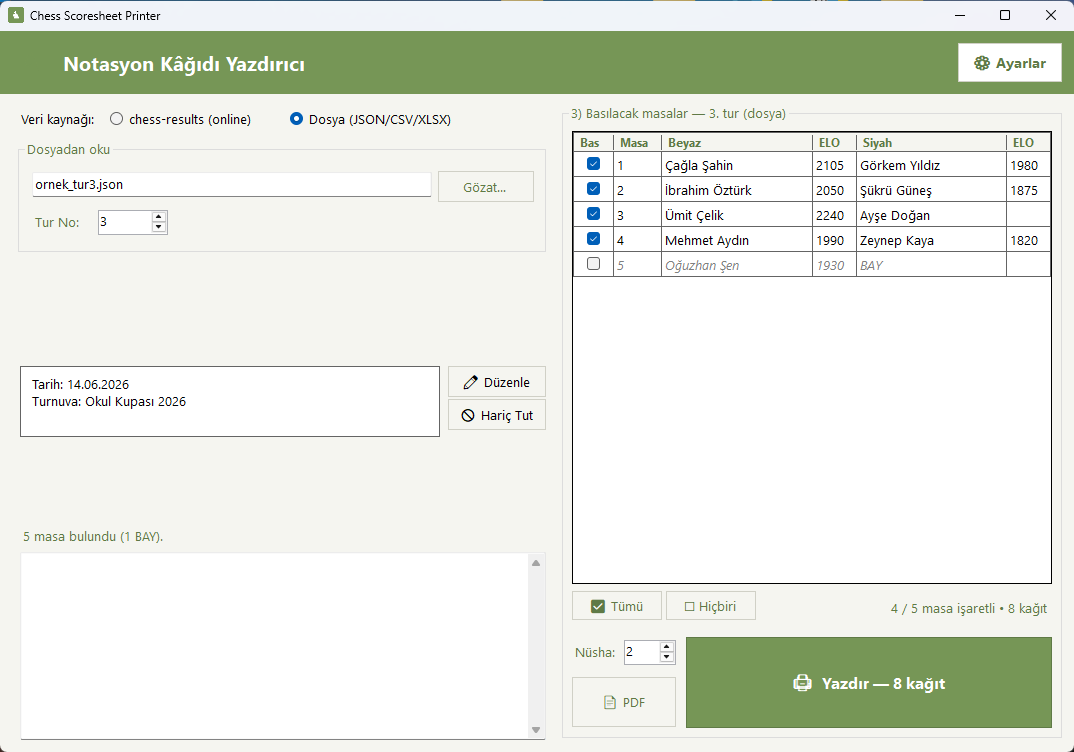
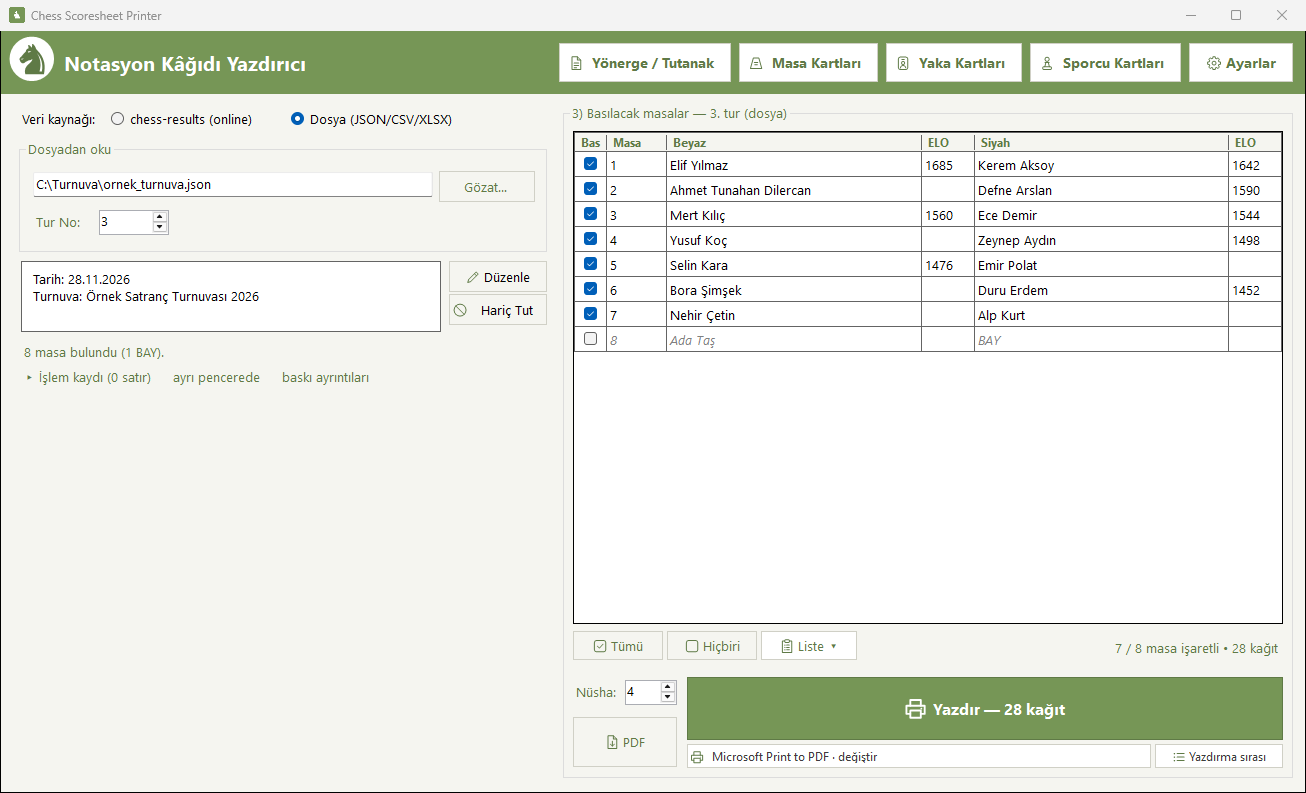
Download page: redesign with sample outputs, GitHub and LinkedIn links
- Header with section links and GitHub / LinkedIn icons; FAQ (also as
  schema.org FAQPage); scoresheet section; gallery of all outputs with a
  full-size viewer
- New images rendered by the app's own drawing code with fictional data
  (tests/AppTests/SiteImagesTests.cs, CSP_SITE_SHOTS): scoresheet, athlete
  badge, name plate (UKD), table card, pairing list, results and standings,
  arbiter sheet with penalty form; new main-window screenshot
- samples/ornek_turnuva.json: fictional tournament for the screenshots
- MainForm: CSP_UI_FILE loads a pairing file on startup (screenshots/tests)

Claude-Session: https://claude.ai/code/session_01DQJQJNc1bC6K3f4wb6bKDb

diff --git a/docs/index.html b/docs/index.html
@@ -29,135 +29,266 @@
   "downloadUrl": "https://github.com/TunahanDilercan/chess-scoresheet-printer/releases/latest/download/ChessScoresheetPrinter-win-Setup.exe",
   "screenshot": "https://www.tunahandilercan.com.tr/chess-scoresheet-printer/images/main-window.png",
   "offers": { "@type": "Offer", "price": "0", "priceCurrency": "TRY" },
-  "author": { "@type": "Person", "name": "Tunahan Dilercan", "url": "https://github.com/TunahanDilercan" }
+  "author": {
+    "@type": "Person",
+    "name": "Tunahan Dilercan",
+    "url": "https://www.tunahandilercan.com.tr/",
+    "sameAs": ["https://github.com/TunahanDilercan", "https://www.linkedin.com/in/tunahandilercan/"]
+  }
+}
+</script>
+<script type="application/ld+json">
+{
+  "@context": "https://schema.org",
+  "@type": "FAQPage",
+  "mainEntity": [
+    { "@type": "Question", "name": "Notasyon Yazdırıcı ücretli mi?",
+      "acceptedAnswer": { "@type": "Answer", "text": "Hayır. Program ücretsizdir; kaynak kodu GitHub'da açıktır." } },
+    { "@type": "Question", "name": "Eşleştirmeler nereden alınır?",
+      "acceptedAnswer": { "@type": "Answer", "text": "Turnuva chess-results üzerinden aranır ve eşleştirmeler otomatik alınır. İnternet olmadan JSON, CSV veya Excel dosyasından da yüklenebilir." } },
+    { "@type": "Question", "name": "Hangi notasyon kâğıtlarıyla çalışır?",
+      "acceptedAnswer": { "@type": "Answer", "text": "Hazır şablonlar yaygın kullanılan A5 notasyon kâğıtlarına göre ayarlıdır. Farklı bir kâğıt için alan konumları şablon düzenleyiciden değiştirilir ve yazıcı kayması milimetre olarak düzeltilir." } },
+    { "@type": "Question", "name": "Güncellemeler nasıl yapılır?",
+      "acceptedAnswer": { "@type": "Answer", "text": "Yeni sürüm program içinden bildirilir; yalnızca değişen kısımlar indirilir. Ayarlar ve şablonlar korunur." } }
+  ]
 }
 </script>
 <style>
   :root {
-    --bg: #f6f6f2; --surface: #ffffff; --text: #1f2a1a; --muted: #5d6656; --line: #dfe2d8;
-    --brand: #5f7a46; --brand-dark: #4b6237; --brand-soft: #e9eee2; --note: #fff8e6; --note-line: #ecd9a6;
+    --bg: #f7f7f3; --surface: #ffffff; --text: #1d2618; --muted: #5a6453; --line: #e0e3d9;
+    --brand: #5f7a46; --brand-dark: #4a6136; --brand-soft: #edf1e6; --note: #fbf6e8; --note-line: #eadcb2;
+    --shadow: 0 14px 36px rgba(20, 30, 15, .12);
   }
   @media (prefers-color-scheme: dark) {
     :root:not([data-theme="light"]) {
-      --bg: #141712; --surface: #1c2019; --text: #e8ebe4; --muted: #a4ab9c; --line: #2f352b;
-      --brand: #7d9b5f; --brand-dark: #93b173; --brand-soft: #243020; --note: #2a2618; --note-line: #4d4527;
+      --bg: #131611; --surface: #1b1f18; --text: #e9ece5; --muted: #a3aa9b; --line: #2d3329;
+      --brand: #7f9d61; --brand-dark: #97b577; --brand-soft: #222b1d; --note: #26231a; --note-line: #4a4228;
+      --shadow: 0 14px 36px rgba(0, 0, 0, .45);
     }
   }
   :root[data-theme="dark"] {
-    --bg: #141712; --surface: #1c2019; --text: #e8ebe4; --muted: #a4ab9c; --line: #2f352b;
-    --brand: #7d9b5f; --brand-dark: #93b173; --brand-soft: #243020; --note: #2a2618; --note-line: #4d4527;
+    --bg: #131611; --surface: #1b1f18; --text: #e9ece5; --muted: #a3aa9b; --line: #2d3329;
+    --brand: #7f9d61; --brand-dark: #97b577; --brand-soft: #222b1d; --note: #26231a; --note-line: #4a4228;
+    --shadow: 0 14px 36px rgba(0, 0, 0, .45);
   }
   * { box-sizing: border-box; }
-  body { margin: 0; background: var(--bg); color: var(--text); font: 16px/1.6 "Segoe UI", system-ui, -apple-system, Roboto, sans-serif; }
+  html { scroll-behavior: smooth; }
+  body { margin: 0; background: var(--bg); color: var(--text); font: 16px/1.65 "Segoe UI", system-ui, -apple-system, Roboto, sans-serif; }
   a { color: var(--brand-dark); }
-  .wrap { max-width: 1040px; margin: 0 auto; padding: 0 16px; }
-  header { padding: 20px 0; }
-  .brand { display: flex; align-items: center; gap: 10px; font-weight: 600; text-decoration: none; color: var(--text); }
-  .brand img { width: 32px; height: 32px; }
-  .hero { display: grid; grid-template-columns: 1fr; gap: 32px; padding: 24px 0 48px; align-items: center; }
-  @media (min-width: 900px) { .hero { grid-template-columns: 5fr 6fr; } }
-  h1 { font-size: clamp(30px, 5vw, 42px); line-height: 1.15; margin: 0 0 14px; letter-spacing: -0.01em; }
-  .lead { font-size: 18px; color: var(--muted); margin: 0 0 28px; }
+  img { max-width: 100%; height: auto; }
+  .wrap { max-width: 1080px; margin: 0 auto; padding: 0 16px; }
+
+  /* Üst çubuk */
+  .top { position: sticky; top: 0; z-index: 10; background: color-mix(in srgb, var(--bg) 88%, transparent);
+         backdrop-filter: blur(8px); border-bottom: 1px solid var(--line); }
+  .top .wrap { display: flex; align-items: center; gap: 16px; height: 60px; }
+  .brand { display: flex; align-items: center; gap: 10px; font-weight: 700; text-decoration: none; color: var(--text); white-space: nowrap; }
+  .brand img { width: 28px; height: 28px; }
+  nav { margin-left: auto; display: flex; align-items: center; gap: 4px; }
+  nav a.sec { color: var(--muted); text-decoration: none; font-size: 15px; padding: 6px 10px; border-radius: 6px; }
+  nav a.sec:hover { color: var(--text); background: var(--brand-soft); }
+  .icon-link { display: inline-flex; width: 36px; height: 36px; align-items: center; justify-content: center; border-radius: 8px; color: var(--muted); }
+  .icon-link:hover { color: var(--text); background: var(--brand-soft); }
+  .icon-link svg { width: 20px; height: 20px; }
+  .sep { width: 1px; height: 22px; background: var(--line); margin: 0 6px; }
+  @media (max-width: 720px) { nav a.sec, .sep { display: none; } }
+
+  /* Giriş */
+  .hero { display: grid; gap: 36px; padding: 56px 0 40px; align-items: center; }
+  @media (min-width: 920px) { .hero { grid-template-columns: 5fr 7fr; } }
+  .eyebrow { display: inline-block; font-size: 13px; font-weight: 600; letter-spacing: .04em; text-transform: uppercase; color: var(--brand-dark);
+             background: var(--brand-soft); padding: 3px 10px; border-radius: 99px; margin-bottom: 14px; }
+  h1 { font-size: clamp(34px, 5.4vw, 48px); line-height: 1.1; margin: 0 0 16px; letter-spacing: -0.015em; }
+  .lead { font-size: 18px; color: var(--muted); margin: 0 0 28px; max-width: 34em; }
   .download { display: inline-flex; align-items: center; gap: 12px; background: var(--brand); color: #fff; text-decoration: none;
-              padding: 16px 28px; border-radius: 10px; font-size: 18px; font-weight: 600; box-shadow: 0 2px 0 rgba(0,0,0,.12); }
+              padding: 15px 28px; border-radius: 10px; font-size: 18px; font-weight: 600; box-shadow: 0 2px 0 rgba(0,0,0,.14); }
   .download:hover { background: var(--brand-dark); }
-  .download:focus-visible { outline: 3px solid var(--text); outline-offset: 3px; }
+  .download:focus-visible, .icon-link:focus-visible, nav a:focus-visible, .gallery button:focus-visible { outline: 3px solid var(--text); outline-offset: 2px; }
   .download svg { width: 22px; height: 22px; flex: none; }
   .meta { margin: 12px 0 0; font-size: 14px; color: var(--muted); }
-  .alt { margin: 18px 0 0; font-size: 15px; display: flex; flex-wrap: wrap; gap: 6px 18px; }
-  .shot { width: 100%; height: auto; border-radius: 10px; border: 1px solid var(--line); box-shadow: 0 12px 32px rgba(0,0,0,.12); background: #fff; }
-  .note { background: var(--note); border: 1px solid var(--note-line); border-radius: 10px; padding: 14px 18px; font-size: 15px; margin: 0 0 48px; }
-  .note strong { display: block; margin-bottom: 2px; }
-  h2 { font-size: 26px; margin: 0 0 20px; }
-  section { padding: 0 0 56px; }
-  .grid { display: grid; grid-template-columns: repeat(auto-fit, minmax(260px, 1fr)); gap: 16px; }
-  .card { background: var(--surface); border: 1px solid var(--line); border-radius: 10px; padding: 18px 20px; }
+  .alt { margin: 16px 0 0; font-size: 15px; display: flex; flex-wrap: wrap; gap: 6px 20px; }
+  .shot { display: block; width: 100%; border-radius: 10px; border: 1px solid var(--line); box-shadow: var(--shadow); background: #fff; }
+
+  /* Bölümler */
+  section { padding: 48px 0; border-top: 1px solid var(--line); }
+  h2 { font-size: 28px; line-height: 1.25; margin: 0 0 8px; letter-spacing: -0.01em; }
+  .sub { color: var(--muted); margin: 0 0 28px; max-width: 46em; }
+  .grid { display: grid; grid-template-columns: repeat(auto-fit, minmax(270px, 1fr)); gap: 16px; }
+  .card { background: var(--surface); border: 1px solid var(--line); border-radius: 12px; padding: 20px 22px; }
   .card h3 { margin: 0 0 6px; font-size: 17px; }
   .card p { margin: 0; color: var(--muted); font-size: 15px; }
-  .samples { display: grid; grid-template-columns: 1fr; gap: 20px; }
-  @media (min-width: 760px) { .samples { grid-template-columns: 4fr 5fr; align-items: start; } }
-  figure { margin: 0; }
-  figure img { width: 100%; height: auto; border: 1px solid var(--line); border-radius: 8px; background: #fff; }
-  figcaption { font-size: 14px; color: var(--muted); margin-top: 8px; }
+
+  .split { display: grid; gap: 32px; align-items: center; }
+  @media (min-width: 860px) { .split { grid-template-columns: 6fr 5fr; } }
+  .split .paper { max-width: 440px; justify-self: center; }
+  ul.points { margin: 0; padding: 0; list-style: none; }
+  ul.points li { position: relative; padding-left: 26px; margin-bottom: 12px; }
+  ul.points li::before { content: ""; position: absolute; left: 0; top: .55em; width: 12px; height: 12px; border-radius: 3px; background: var(--brand); }
+
+  /* Örnek çıktılar: tek ekranda galeri */
+  .gallery { display: grid; gap: 18px; grid-template-columns: repeat(auto-fill, minmax(290px, 1fr)); }
+  .gallery figure { margin: 0; background: var(--surface); border: 1px solid var(--line); border-radius: 12px; padding: 12px; display: flex; flex-direction: column; }
+  .gallery button { all: unset; cursor: zoom-in; display: flex; align-items: center; justify-content: center; height: 240px;
+                    background: #fff; border-radius: 6px; overflow: hidden; border: 1px solid var(--line); }
+  .gallery button img { max-height: 228px; width: auto; max-width: 96%; object-fit: contain; }
+  .gallery figcaption { font-size: 14px; margin-top: 10px; }
+  .gallery figcaption b { display: block; font-size: 15px; }
+  .gallery figcaption span { color: var(--muted); }
+  dialog { border: 0; padding: 0; background: transparent; max-width: min(96vw, 1100px); max-height: 94vh; }
+  dialog::backdrop { background: rgba(10, 12, 8, .82); }
+  dialog img { display: block; max-width: min(96vw, 1100px); max-height: 88vh; width: auto; margin: 0 auto; background: #fff; border-radius: 6px; }
+  dialog p { color: #eef; text-align: center; margin: 10px 0 0; font-size: 15px; }
+  dialog form { position: fixed; top: 14px; right: 18px; }
+  dialog form button { font: inherit; font-size: 15px; color: #fff; background: rgba(255,255,255,.16); border: 0; border-radius: 8px; padding: 8px 14px; cursor: pointer; }
+
   ol.steps { margin: 0; padding-left: 22px; }
-  ol.steps li { margin-bottom: 8px; }
-  footer { border-top: 1px solid var(--line); padding: 24px 0 40px; font-size: 14px; color: var(--muted); }
-  footer p { margin: 0 0 6px; }
+  ol.steps li { margin-bottom: 10px; }
+  .note { background: var(--note); border: 1px solid var(--note-line); border-radius: 10px; padding: 14px 18px; font-size: 15px; margin-top: 22px; }
+  details { background: var(--surface); border: 1px solid var(--line); border-radius: 10px; padding: 14px 18px; margin-bottom: 10px; }
+  details summary { cursor: pointer; font-weight: 600; }
+  details p { margin: 8px 0 0; color: var(--muted); }
+
+  footer { border-top: 1px solid var(--line); padding: 28px 0 44px; font-size: 14px; color: var(--muted); }
+  footer .wrap { display: flex; flex-wrap: wrap; gap: 8px 24px; justify-content: space-between; }
+  footer p { margin: 0; }
 </style>
 </head>
 <body>
-<div class="wrap">
-  <header>
-    <a class="brand" href="./"><img src="images/icon.png" alt="" width="32" height="32">Notasyon Yazdırıcı</a>
-  </header>
+<header class="top">
+  <div class="wrap">
+    <a class="brand" href="./"><img src="images/icon.png" alt="" width="28" height="28">Notasyon Yazdırıcı</a>
+    <nav aria-label="Sayfa">
+      <a class="sec" href="#ozellikler">Özellikler</a>
+      <a class="sec" href="#ornekler">Örnek çıktılar</a>
+      <a class="sec" href="#kurulum">Kurulum</a>
+      <span class="sep" aria-hidden="true"></span>
+      <a class="icon-link" href="https://github.com/TunahanDilercan/chess-scoresheet-printer" title="GitHub" aria-label="GitHub'da kaynak kod">
+        <svg viewBox="0 0 24 24" fill="currentColor" aria-hidden="true"><path d="M12 .5a11.5 11.5 0 0 0-3.64 22.41c.58.11.79-.25.79-.56v-2c-3.2.7-3.88-1.37-3.88-1.37-.52-1.33-1.28-1.69-1.28-1.69-1.05-.71.08-.7.08-.7 1.16.08 1.77 1.19 1.77 1.19 1.03 1.77 2.7 1.26 3.36.96.1-.75.4-1.26.73-1.55-2.56-.29-5.25-1.28-5.25-5.69 0-1.26.45-2.29 1.19-3.09-.12-.29-.52-1.46.11-3.05 0 0 .97-.31 3.17 1.18a10.9 10.9 0 0 1 5.77 0c2.2-1.49 3.17-1.18 3.17-1.18.63 1.59.23 2.76.11 3.05.74.8 1.19 1.83 1.19 3.09 0 4.42-2.7 5.39-5.27 5.68.41.36.78 1.06.78 2.14v3.17c0 .31.21.68.8.56A11.5 11.5 0 0 0 12 .5Z"/></svg>
+      </a>
+      <a class="icon-link" href="https://www.linkedin.com/in/tunahandilercan/" title="LinkedIn" aria-label="Tunahan Dilercan LinkedIn profili">
+        <svg viewBox="0 0 24 24" fill="currentColor" aria-hidden="true"><path d="M20.45 20.45h-3.56v-5.57c0-1.33-.02-3.04-1.85-3.04-1.85 0-2.14 1.45-2.14 2.94v5.67H9.35V9h3.41v1.56h.05c.48-.9 1.64-1.85 3.37-1.85 3.6 0 4.27 2.37 4.27 5.46v6.28ZM5.34 7.43a2.07 2.07 0 1 1 0-4.14 2.07 2.07 0 0 1 0 4.14ZM7.12 20.45H3.56V9h3.56v11.45ZM22.22 0H1.77C.79 0 0 .77 0 1.73v20.54C0 23.23.79 24 1.77 24h20.45c.98 0 1.78-.77 1.78-1.73V1.73C24 .77 23.2 0 22.22 0Z"/></svg>
+      </a>
+    </nav>
+  </div>
+</header>
 
+<main class="wrap">
   <div class="hero">
     <div>
+      <span class="eyebrow">Satranç turnuvaları için</span>
       <h1>Notasyon Yazdırıcı</h1>
-      <p class="lead">Satranç turnuvaları için yazdırma programı. Eşleştirmeleri chess-results'tan alır; notasyon kâğıtlarını, hakem eşleştirme kağıtlarını, yaka kartlarını ve masa kartlarını hazırlayıp yazdırır.</p>
-      <a class="download" id="download" href="https://github.com/TunahanDilercan/chess-scoresheet-printer/releases/latest/download/ChessScoresheetPrinter-win-Setup.exe">
+      <p class="lead">Eşleştirmeleri chess-results'tan alır; notasyon kâğıtlarını, hakem eşleştirme kağıtlarını, salon listelerini, yaka kartlarını ve masa kartlarını dakikalar içinde hazırlayıp yazdırır.</p>
+      <a class="download" href="https://github.com/TunahanDilercan/chess-scoresheet-printer/releases/latest/download/ChessScoresheetPrinter-win-Setup.exe">
         <svg viewBox="0 0 24 24" fill="none" stroke="currentColor" stroke-width="2" stroke-linecap="round" stroke-linejoin="round" aria-hidden="true"><path d="M12 3v12"/><path d="m7 10 5 5 5-5"/><path d="M5 21h14"/></svg>
         Windows için indir
       </a>
-      <p class="meta" id="meta">En son sürüm • Windows 10 ve 11 (64 bit) • Ücretsiz</p>
-      <p class="meta">Geliştiren: Tunahan Dilercan</p>
+      <p class="meta" id="meta">Son sürüm • Windows 10 ve 11 (64 bit) • Ücretsiz</p>
       <p class="alt">
-        <a href="https://github.com/TunahanDilercan/chess-scoresheet-printer/releases/latest/download/ChessScoresheetPrinter-win-Portable.zip">Taşınabilir sürüm (ZIP, kurulumsuz)</a>
+        <a href="https://github.com/TunahanDilercan/chess-scoresheet-printer/releases/latest/download/ChessScoresheetPrinter-win-Portable.zip">Kurulumsuz sürüm (ZIP)</a>
         <a href="https://github.com/TunahanDilercan/chess-scoresheet-printer/releases">Sürüm notları</a>
-        <a href="https://github.com/TunahanDilercan/chess-scoresheet-printer">Kaynak kod</a>
       </p>
     </div>
-    <img class="shot" src="images/main-window.png" width="1074" height="752" alt="Notasyon Yazdırıcı ana penceresi: basılacak masalar listesi ve Yazdır düğmesi">
+    <img class="shot" src="images/main-window.png" width="1306" height="793" alt="Notasyon Yazdırıcı ana ekranı: 3. tur eşleştirmeleri, basılacak masalar ve Yazdır düğmesi">
   </div>
 
-  <div class="note">
-    <strong>Windows uyarı gösterirse</strong>
-    Program yeni ve imzasız olduğu için Windows ilk açılışta "Bilgisayarınız korundu" uyarısı gösterebilir. Devam etmek için <b>Ek bilgi</b>, ardından <b>Yine de çalıştır</b> seçeneğine tıklayın.
-  </div>
-
-  <section>
-    <h2>Neler yapılabilir</h2>
+  <section id="ozellikler">
+    <h2>Turnuvanın bütün basılı evrakı tek programda</h2>
+    <p class="sub">Turnuvayı seçin, turu seçin, yazdırın. Kategoriler, turlar ve sporcu bilgileri chess-results'tan otomatik gelir; elle veri girmeye gerek kalmaz.</p>
     <div class="grid">
-      <div class="card"><h3>Notasyon kâğıtları</h3><p>Eşleştirmeler hazır basılı kâğıtlara yerleştirilir. İsviçre, Berger ve takım turnuvaları desteklenir; tur ve kategoriye göre toplu yazdırılır.</p></div>
-      <div class="card"><h3>Hakem eşleştirme kağıtları</h3><p>İri yazılı, sonuç kutulu kağıtlar ve ceza bildirim formu. Siyah beyaz baskıya uygundur.</p></div>
-      <div class="card"><h3>Yaka kartı ve isimlik</h3><p>Sporcu, hakem ve görevli kartları. Kategori renkleri masa kartlarıyla ortaktır.</p></div>
-      <div class="card"><h3>Kategori masa kartları</h3><p>Turnuva afişi ve kategori adıyla A4 masa kartları; logo yerleşimi ayarlanabilir.</p></div>
-      <div class="card"><h3>Pano listeleri</h3><p>Eşleştirme, sonuç ve sıralama listeleri salon panosu için A4'e hazırlanır.</p></div>
+      <div class="card"><h3>Notasyon kâğıtları</h3><p>Masa, tur, oyuncu adları, rating ve il bilgisi hazır basılı kâğıda yerleştirilir. İsviçre, Berger ve takım turnuvaları desteklenir.</p></div>
+      <div class="card"><h3>Hakem eşleştirme kağıtları</h3><p>Büyük yazılı, sonuç kutulu kağıtlar; isteğe bağlı ceza bildirim formuyla aynı sayfada.</p></div>
+      <div class="card"><h3>Salon listeleri</h3><p>Her kategorinin eşleştirme, sonuç ve sıralama listeleri pano için A4'e hazırlanır.</p></div>
+      <div class="card"><h3>Yaka kartı ve isimlik</h3><p>Sporcu, hakem ve görevli kartları. Her kategori kendi renginde; UKD ve ELO bilgisiyle.</p></div>
+      <div class="card"><h3>Kategori masa kartları</h3><p>Turnuva afişi ve büyük kategori adıyla A4 masa kartları. Renkler yaka kartlarıyla ortaktır.</p></div>
       <div class="card"><h3>Yönerge, rapor ve tutanaklar</h3><p>Turnuva bilgileriyle doldurulan hazır şablonlar; PDF, yazıcı ya da Word çıktısı.</p></div>
     </div>
   </section>
 
-  <section>
+  <section id="notasyon">
+    <div class="split">
+      <div>
+        <h2>Hazır basılı kâğıda tam yerleşim</h2>
+        <p class="sub">Programın temel işi: her masanın notasyon kâğıdını, elle yazmaya gerek bırakmadan doldurmak.</p>
+        <ul class="points">
+          <li>Turnuva adı, tarih, kategori, tur ve masa numarası ile iki oyuncunun adı, ratingi ve ili tek seferde basılır.</li>
+          <li>Hazır şablonlar yaygın kullanılan A5 notasyon kâğıtlarına göre ayarlıdır.</li>
+          <li>Farklı bir kâğıt için alan konumları şablon düzenleyiciden sürükle-bırak ile değiştirilir.</li>
+          <li>Yazıcı kayması milimetre olarak düzeltilir; hizalama test sayfasıyla boş kâğıtta denenir.</li>
+          <li>Seçilen masalar, bütün kategori ya da bütün tur tek tıkla basılır.</li>
+        </ul>
+      </div>
+      <img class="paper shot" src="images/sample-scoresheet.jpg" width="932" height="1322" loading="lazy"
+           alt="Doldurulmuş notasyon kâğıdı: Örnek Satranç Turnuvası 2026, 3. tur, 2. masa, Ahmet Tunahan Dilercan – Defne Arslan">
+    </div>
+  </section>
+
+  <section id="ornekler">
     <h2>Örnek çıktılar</h2>
-    <div class="samples">
+    <p class="sub">Aşağıdaki görseller programın kendi çıktılarıdır; büyütmek için üzerine tıklayın. Örneklerdeki turnuva ve sporcular hayalîdir.</p>
+    <div class="gallery">
       <figure>
-        <img src="images/athlete-cards.png" width="560" height="792" loading="lazy" alt="A4 sayfada dört sporcu yaka kartı; her kategori kendi renginde">
-        <figcaption>Sporcu yaka kartları: her kategori kendi renginde</figcaption>
+        <button type="button" data-full="images/sample-athlete-badge.png" aria-label="Sporcu yaka kartını büyüt"><img src="images/sample-athlete-badge.png" width="635" height="903" loading="lazy" alt="Sporcu yaka kartı: turnuva afişi, sporcu adı, kategori ve il"></button>
+        <figcaption><b>Sporcu yaka kartı</b><span>95×135 mm, A4'e dört kart. Çerçeve kategori renginde.</span></figcaption>
       </figure>
       <figure>
-        <img src="images/arbiter-sheet.png" width="720" height="589" loading="lazy" alt="Hakem eşleştirme kağıdı: masa, beyaz ve siyah oyuncular, sonuç kutuları ve ceza bildirim formu">
-        <figcaption>Hakem eşleştirme kağıdı ve ceza bildirim formu (siyah beyaz)</figcaption>
+        <button type="button" data-full="images/sample-name-plate.png" aria-label="Masa isimliğini büyüt"><img src="images/sample-name-plate.png" width="1271" height="428" loading="lazy" alt="Masa isimliği: kategori, sporcu adı, il ve UKD 1412"></button>
+        <figcaption><b>Masa isimliği</b><span>190 mm genişlik; UKD ve ELO kutularıyla.</span></figcaption>
+      </figure>
+      <figure>
+        <button type="button" data-full="images/sample-table-card.jpg" aria-label="Kategori masa kartını büyüt"><img src="images/sample-table-card.jpg" width="1286" height="909" loading="lazy" alt="Kategori masa kartı: turnuva afişi ve 12 YAŞ AÇIK yazısı"></button>
+        <figcaption><b>Kategori masa kartı</b><span>A4 yatay; afiş ve büyük kategori adı.</span></figcaption>
+      </figure>
+      <figure>
+        <button type="button" data-full="images/sample-pairings.png" aria-label="Eşleştirme listesini büyüt"><img src="images/sample-pairings.png" width="909" height="1286" loading="lazy" alt="3. tur eşleştirme listesi"></button>
+        <figcaption><b>Eşleştirme listesi</b><span>Masa, oyuncular, rating ve tur başı puan.</span></figcaption>
+      </figure>
+      <figure>
+        <button type="button" data-full="images/sample-results.png" aria-label="Sonuç ve sıralama listesini büyüt"><img src="images/sample-results.png" width="909" height="1286" loading="lazy" alt="3. tur sonuçları ve sıralama"></button>
+        <figcaption><b>Sonuç ve sıralama</b><span>Tur sonuçları ve o turdan sonraki sıralama.</span></figcaption>
+      </figure>
+      <figure>
+        <button type="button" data-full="images/sample-arbiter-sheet.png" aria-label="Hakem kağıdını ve ceza formunu büyüt"><img src="images/sample-arbiter-sheet.png" width="1240" height="1754" loading="lazy" alt="Hakem eşleştirme kağıdı ve altında ceza bildirim formu"></button>
+        <figcaption><b>Hakem kağıdı ve ceza formu</b><span>Sonuç kutuları; beyaz ve siyah taraf işaretli.</span></figcaption>
       </figure>
     </div>
   </section>
 
-  <section>
+  <section id="kurulum">
     <h2>Kurulum</h2>
     <ol class="steps">
-      <li>Yukarıdaki <b>Windows için indir</b> düğmesiyle kurulum dosyasını indirin.</li>
-      <li>Dosyayı açın. Program kurulur; masaüstüne ve Başlat menüsüne "Chess Scoresheet Printer" kısayolu eklenir.</li>
-      <li>Yeni sürümler program içinden bildirilir ve yalnızca değişen kısımlar indirilir. Ayarlarınız ve şablonlarınız güncellemede korunur.</li>
+      <li><b>Windows için indir</b> düğmesiyle kurulum dosyasını indirin.</li>
+      <li>Dosyayı açın. Program kurulur; masaüstüne ve Başlat menüsüne <i>Chess Scoresheet Printer</i> kısayolu eklenir.</li>
+      <li>Yeni sürümler program içinden bildirilir; yalnızca değişen kısımlar indirilir. Ayarlarınız ve şablonlarınız korunur.</li>
     </ol>
-    <p class="meta">Programı kaldırmak için: Ayarlar → Uygulamalar → Chess Scoresheet Printer → Kaldır.</p>
+    <div class="note">
+      Program imzasız olduğu için Windows ilk açılışta <b>"Bilgisayarınız korundu"</b> uyarısı gösterebilir. Devam etmek için <b>Ek bilgi</b>, ardından <b>Yine de çalıştır</b> seçeneğine tıklayın.
+    </div>
   </section>
 
-  <footer>
-    <p>Notasyon Yazdırıcı (Chess Scoresheet Printer), Tunahan Dilercan tarafından geliştirilen bağımsız bir projedir; Türkiye Satranç Federasyonunun resmî uygulaması değildir.</p>
-    <p><a href="https://github.com/TunahanDilercan/chess-scoresheet-printer">GitHub</a> • <a href="https://github.com/TunahanDilercan/chess-scoresheet-printer/issues">Sorun bildir</a></p>
-  </footer>
-</div>
+  <section id="sss">
+    <h2>Sık sorulan sorular</h2>
+    <details><summary>Notasyon Yazdırıcı ücretli mi?</summary><p>Hayır. Program ücretsizdir; kaynak kodu GitHub'da açıktır.</p></details>
+    <details><summary>Eşleştirmeler nereden alınır?</summary><p>Turnuva chess-results üzerinden aranır ve eşleştirmeler otomatik alınır. İnternet olmadan JSON, CSV veya Excel dosyasından da yüklenebilir.</p></details>
+    <details><summary>Hangi notasyon kâğıtlarıyla çalışır?</summary><p>Hazır şablonlar yaygın kullanılan A5 notasyon kâğıtlarına göre ayarlıdır. Farklı bir kâğıt için alan konumları şablon düzenleyiciden değiştirilir ve yazıcı kayması milimetre olarak düzeltilir.</p></details>
+    <details><summary>Güncellemeler nasıl yapılır?</summary><p>Yeni sürüm program içinden bildirilir; yalnızca değişen kısımlar indirilir. Ayarlar ve şablonlar korunur.</p></details>
+  </section>
+</main>
+
+<footer>
+  <div class="wrap">
+    <p>Notasyon Yazdırıcı (Chess Scoresheet Printer) — Tunahan Dilercan. Bağımsız bir projedir; Türkiye Satranç Federasyonunun resmî uygulaması değildir.</p>
+    <p><a href="https://www.tunahandilercan.com.tr/">tunahandilercan.com.tr</a> • <a href="https://github.com/TunahanDilercan/chess-scoresheet-printer/issues">Sorun bildir</a></p>
+  </div>
+</footer>
+
+<dialog id="viewer" aria-label="Örnek çıktı">
+  <form method="dialog"><button>Kapat ✕</button></form>
+  <img id="viewer-img" src="" alt="">
+  <p id="viewer-cap"></p>
+</dialog>
+
 <script>
-  // Sürüm numarası ve dosya boyutu GitHub'dan okunur; okunamazsa sayfa varsayılan metinle çalışır.
+  // Sürüm numarası, tarih ve dosya boyutu GitHub'dan okunur; okunamazsa varsayılan metin kalır.
   fetch("https://api.github.com/repos/TunahanDilercan/chess-scoresheet-printer/releases/latest")
     .then(function (r) { return r.ok ? r.json() : null; })
     .then(function (rel) {
@@ -168,6 +299,19 @@
       document.getElementById("meta").textContent = "Sürüm " + rel.tag_name.replace(/^v/, "") + date + size + " • Windows 10 ve 11 (64 bit)";
     })
     .catch(function () {});
+
+  // Örnek çıktıyı büyüt
+  var viewer = document.getElementById("viewer");
+  document.querySelectorAll(".gallery button").forEach(function (b) {
+    b.addEventListener("click", function () {
+      var img = document.getElementById("viewer-img");
+      img.src = b.dataset.full;
+      img.alt = b.querySelector("img").alt;
+      document.getElementById("viewer-cap").textContent = b.parentElement.querySelector("figcaption b").textContent;
+      viewer.showModal();
+    });
+  });
+  viewer.addEventListener("click", function (e) { if (e.target === viewer) viewer.close(); });
 </script>
 </body>
 </html>
